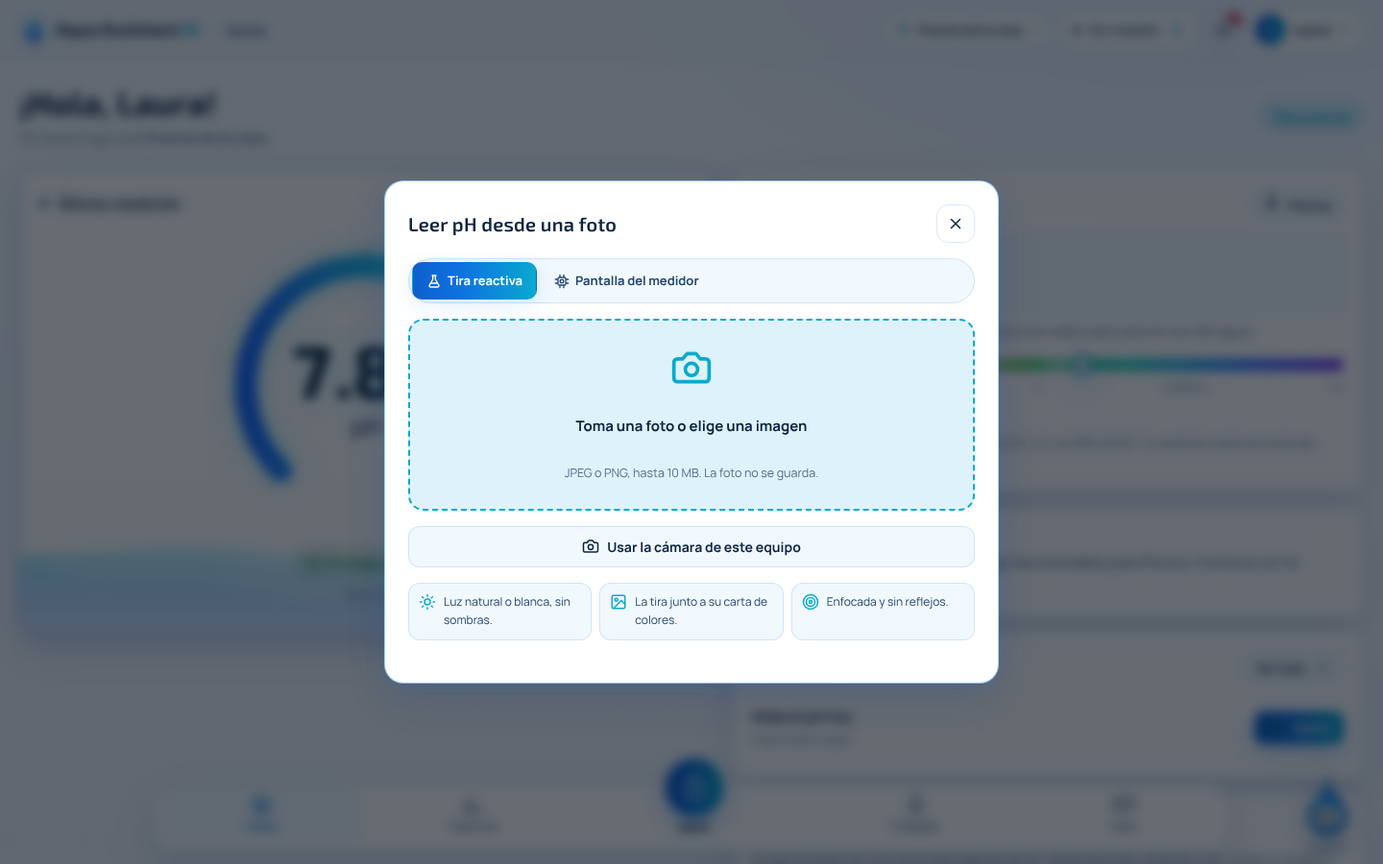
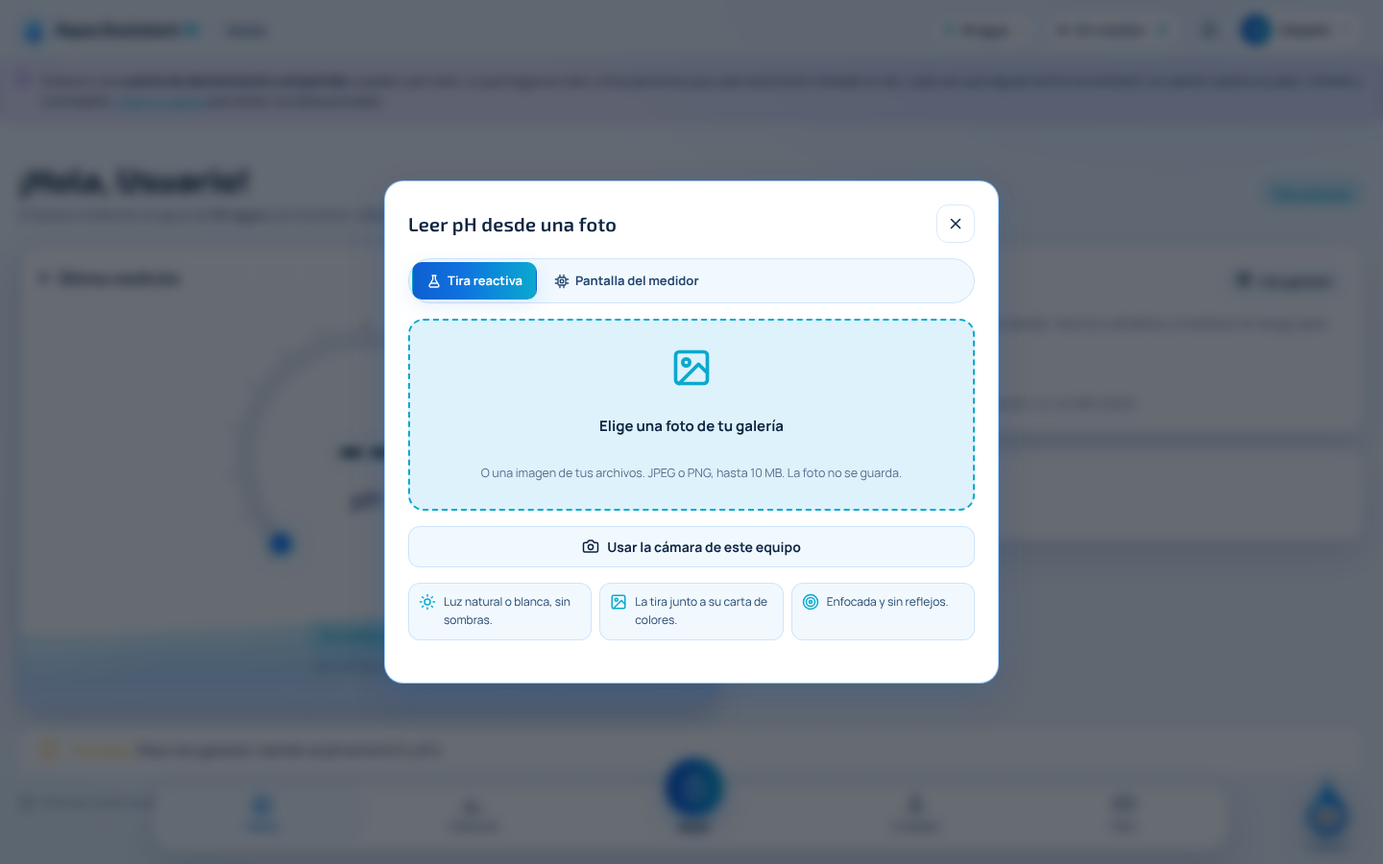
H-066: MockUps, requerimientos y README al día
Nueve MockUps mostraban la app vieja: el inicio de sesión con dos botones y correos inventados (1, 4, 27, 32 y 47), la foto que obligaba a usar la cámara (19) y el administrador con la barra del usuario y «Medir» (25, 26 y 31). Se capturaron otra vez desde la app publicada. RF-15 (galería y número marcado «pH»), RF-21 (el administrador ve otra aplicación y no mide), RF-30 (la sirena suena en el celular y un valor crítico alarma aunque no haya mediciones recientes), RNF-03 (modo siempre despierto) y RNF-06 (los siete patrones de clase y las cifras de pruebas) quedan como la app de hoy, igual que sus issues y el README. También se registran H-065 y H-066. Pruebas: 65 antes, 65 después.

diff --git a/docs/Requerimientos.md b/docs/Requerimientos.md
@@ -345,13 +345,15 @@ Estado: **Hecho** = implementado y probado en la aplicación publicada; **Parcia
 
 **Como** usuario sin medidor electrónico, **quiero** tomar una foto de una tira reactiva o de la pantalla de mi medidor, **para** registrar el pH sin escribirlo.
 
-**Descripción.** La IA con visión lee la foto, da un valor o un rango con su confianza y una segunda opinión de otro modelo; el usuario confirma antes de guardar.
+**Descripción.** Desde «Medir» → «Con una foto» se elige una foto de la galería del celular o de los archivos, o se toma con la cámara del equipo. La IA con visión lee la foto, da un valor o un rango con su confianza y una segunda opinión de otro modelo; el usuario confirma antes de guardar. En la pantalla de un medidor lee solo el número que tiene «pH» al lado, nunca la temperatura. Una lectura crítica guardada por foto hace sonar la alarma igual que las demás.
 
 **Criterios de aceptación**
 
 - [x] Fotos borrosas o sin carta de colores se rechazan con la causa.
 - [x] El resultado muestra el valor, la confianza y el acuerdo entre modelos.
 - [x] Nada se guarda sin confirmación del usuario.
+- [x] En el celular se puede elegir una foto ya tomada (galería) o usar la cámara.
+- [x] En la pantalla de un medidor se lee solo el número marcado «pH».
 - [ ] Pendiente: medir la precisión con fotos reales de tiras.
 
 **MockUp19** · Lectura de pH por foto
@@ -455,20 +457,21 @@ Estado: **Hecho** = implementado y probado en la aplicación publicada; **Parcia
 
 **Como** administrador, **quiero** gestionar cuentas (plan, rol, estado) y ver el consumo y costo de la IA, **para** controlar el sistema y sus gastos.
 
-**Descripción.** Búsqueda y filtros de usuarios, detalle con pagos, actividad y sesiones, cambios de plan, rol y estado con aviso por correo, y reporte de consumo de IA por modelo, función y día con costo estimado.
+**Descripción.** El administrador trabaja para la empresa y ve otra aplicación, con su propia barra: Panel (cifras, usuarios, pagos y actividad), Consumo IA, Datos oficiales y Sesiones. En el Panel hay búsqueda y filtros de usuarios, detalle con pagos, actividad y sesiones, y cambios de plan, rol y estado con aviso por correo. Consumo IA reporta llamadas, tokens y costo por modelo, función y día. El administrador no mide el pH: no tiene «Medir», ni medidor, ni Aqua, y el servidor rechaza con 403 cualquier medición de una cuenta administradora.
 
 **Criterios de aceptación**
 
 - [x] Solo el rol administrador entra a Administración.
+- [x] El administrador ve su propia barra y no puede registrar mediciones (403 en el servidor).
 - [x] No se puede dejar el sistema sin administradores activos.
 - [x] El consumo muestra llamadas, tokens y costo estimado por modelo.
 - [x] Los precios estimados vienen de fuentes de terceros y deben confirmarse en las páginas oficiales.
 
-**MockUp25** · Administración (cuentas reales difuminadas)
+**MockUp25** · Panel del administrador, con su propia barra (Panel, Consumo IA, Datos oficiales, Sesiones)
 
 ![MockUp25](mockups/MockUp25.png)
 
-**MockUp26** · Consumo y costos de IA
+**MockUp26** · Consumo de IA de toda la plataforma
 
 ![MockUp26](mockups/MockUp26.png)
 
@@ -647,7 +650,7 @@ Estado: **Hecho** = implementado y probado en la aplicación publicada; **Parcia
 
 **Como** dueño de una piscina, un acuario u otra agua con un medidor dentro, **quiero** que la app me avise de inmediato con sonido y que Aqua me diga si el cambio es peligroso cuando el pH se altera, **para** sacar a las personas del agua o proteger a los peces a tiempo.
 
-**Descripción.** Con el medidor en el agua («Medir cada 10 s», que sigue aunque se cambie de pantalla), cada medición se compara con las de la última hora. Si el pH cambia 0,5 o más (por ejemplo, algo cayó al agua), o si entra en nivel crítico, se crea la alerta «Alteración del pH en el agua». Dice si es peligroso según los rangos del perfil (nivel crítico = peligroso) y qué hacer según el tipo de agua: en una piscina, que nadie se bañe y salgan del agua; en un acuario, que los peces corren peligro; en agua potable, no tomarla; en riego, no regar. Funciona con cualquier perfil. En la app suena una alarma (al volumen del equipo), aparece una ventana que no se cierra sola y Aqua lo dice en voz alta; la alarma se repite cada pocos segundos hasta pulsar «Entendido». En el celular o computador llega un aviso urgente que queda en pantalla y vibra, aunque la app esté cerrada (si se activaron los avisos). La misma alerta no se repite en ese lugar durante 30 minutos, salvo que se vuelva peligrosa. Debajo, «Aqua explica» amplía el aviso con IA: un resumen, las causas probables para ese tipo de agua, qué hacer ahora y cuándo vuelve a ser segura, con las mediciones de la última hora, el veredicto de peligro del sistema y las normas que aplican; Aqua lo lee después del aviso. Si la IA no está disponible, la explicación sale de las reglas del perfil. En Configuración se puede apagar el sonido en cada dispositivo y probar la alarma. Si la app está abierta en otro equipo, revisa las alertas cada 15 segundos. Con el medidor conectado al mismo equipo, el aviso es inmediato.
+**Descripción.** Con el medidor en el agua («Medir cada 10 s», que sigue aunque se cambie de pantalla), cada medición se compara con las de la última hora. Si el pH cambia 0,5 o más (por ejemplo, algo cayó al agua), o si entra en nivel crítico aunque no haya mediciones en la última hora, se crea la alerta «Alteración del pH en el agua». Dice si es peligroso según los rangos del perfil (nivel crítico = peligroso) y qué hacer según el tipo de agua: en una piscina, que nadie se bañe y salgan del agua; en un acuario, que los peces corren peligro; en agua potable, no tomarla; en riego, no regar. Funciona con cualquier perfil. En la app suena una sirena generada en el navegador (al volumen del equipo, también en el celular, con un elemento de audio y Web Audio de respaldo), aparece una ventana que no se cierra sola y Aqua lo dice en voz alta; la alarma se repite cada pocos segundos hasta pulsar «Entendido». En el celular o computador llega un aviso urgente que queda en pantalla y vibra, aunque la app esté cerrada (si se activaron los avisos). La misma alerta no se repite en ese lugar durante 30 minutos, salvo que se vuelva peligrosa. Debajo, «Aqua explica» amplía el aviso con IA: un resumen, las causas probables para ese tipo de agua, qué hacer ahora y cuándo vuelve a ser segura, con las mediciones de la última hora, el veredicto de peligro del sistema y las normas que aplican; Aqua lo lee después del aviso. Si la IA no está disponible, la explicación sale de las reglas del perfil. En Configuración se puede apagar el sonido en cada dispositivo y probar la alarma. Si la app está abierta en otro equipo, revisa las alertas cada 15 segundos. Con el medidor conectado al mismo equipo, el aviso es inmediato.
 
 **Criterios de aceptación**
 
@@ -657,6 +660,8 @@ Estado: **Hecho** = implementado y probado en la aplicación publicada; **Parcia
 - [x] El aviso del celular o computador es urgente y queda en pantalla hasta tocarlo.
 - [x] «Aqua explica» muestra y lee el resumen, las causas probables, los pasos y cuándo vuelve a ser segura (con IA o, sin ella, con las reglas del perfil).
 - [x] Los navegadores solo dejan sonar una página después de tocarla una vez; si no, la ventana lo indica.
+- [x] La sirena suena también en el celular (en iPhone con Safari 17 o más, aunque esté en silencio).
+- [x] Una medición en nivel crítico hace sonar la alarma aunque la anterior sea de hace más de una hora.
 
 **MockUp48** · Alarma en una piscina: el pH bajó de 7,50 a 5,20, con la explicación de Aqua (IA)
 
@@ -705,13 +710,14 @@ Estado: **Hecho** = implementado y probado en la aplicación publicada; **Parcia
 
 **Como** usuario, **quiero** que la app esté disponible cuando la abra y me avise si el servidor está arrancando, **para** saber que debo esperar un momento y no ver un error.
 
-**Descripción.** Frontend en Vercel, backend y servicio de IA en Render y base PostgreSQL en Neon. Para que las 750 horas gratis al mes de Render alcancen a los dos servicios, el backend se duerme cuando nadie lo usa: la primera visita después tarda alrededor de un minuto y la app muestra «Activando el servidor…» mientras arranca. Un flujo de GitHub lo despierta cada 3 horas para enviar los recordatorios e importar los datos del USGS. Para una presentación, KEEP_AWAKE=true en Render lo mantiene despierto.
+**Descripción.** Frontend en Vercel, backend y servicio de IA en Render y base PostgreSQL en Neon. Render apaga un servicio gratuito tras 15 minutos sin uso. Desde el 20 nov 2026, a pedido del dueño, el flujo de GitHub «Despertar el backend y la IA» mantiene despiertos al backend y al servicio de IA (los visita cada 4 minutos), así que responden al instante. Con la variable KEEP_AWAKE_MODE=3h de GitHub vuelve el modo ahorro, para que las 750 horas gratis al mes alcancen: los servicios se duermen cuando nadie los usa, el flujo los despierta cada 3 horas para enviar los recordatorios e importar los datos del USGS, y la primera visita tarda alrededor de un minuto mientras la app muestra «Activando el servidor…».
 
 **Criterios de aceptación**
 
 - [x] /actuator/health/liveness responde 200 sin iniciar sesión.
 - [x] Si el servidor tarda, la app avisa en lugar de mostrar un error.
 - [x] Dormido, el backend despierta con la primera visita y la app sigue sola cuando responde.
+- [x] En modo «siempre despierto», el backend y el servicio de IA responden sin esperar el arranque.
 
 **MockUp29** · Aviso mientras el servidor arranca
 
@@ -761,7 +767,7 @@ Estado: **Hecho** = implementado y probado en la aplicación publicada; **Parcia
 - [x] Las cuentas reales aparecen enmascaradas para el administrador de demostración.
 - [x] Cada medición indica su origen (manual, medidor, foto).
 
-**MockUp31** · Datos enmascarados para el administrador de demostración
+**MockUp31** · Cuentas de personas reales enmascaradas para el administrador de demostración
 
 ![MockUp31](mockups/MockUp31.png)
 
@@ -771,7 +777,7 @@ Estado: **Hecho** = implementado y probado en la aplicación publicada; **Parcia
 
 **Como** desarrollador del proyecto, **quiero** un código organizado, documentado y con pruebas automáticas, **para** cambiarlo sin romper lo que funciona.
 
-**Descripción.** Cuatro repositorios: el frontend (HTML, CSS y JavaScript con módulos, sin frameworks), el backend y el servicio de IA en Spring Boot por capas (controlador, servicio, repositorio) organizados por módulo, y la base de datos (DBPatSft), cuyas migraciones Flyway GitHub Actions prueba en una base vacía y aplica a Neon. Catálogo de patrones de diseño (docs/DesignPatterns.md del backend). Pruebas automáticas: backend (111) y servicio de IA (119) con JUnit y H2, frontend (56) con node:test y el firmware del medidor con pruebas en el computador; GitHub Actions las ejecuta en cada cambio.
+**Descripción.** Cuatro repositorios: el frontend (HTML, CSS y JavaScript con módulos, sin frameworks), el backend y el servicio de IA en Spring Boot por capas (controlador, servicio, repositorio) organizados por módulo, y la base de datos (DBPatSft), cuyas migraciones Flyway GitHub Actions prueba en una base vacía y aplica a Neon. Catálogo de patrones de diseño (docs/DesignPatterns.md del backend), con los siete vistos en clase (Abstract Factory, Factory Method, Adapter, Bridge, Decorator, Facade y Proxy), cada uno con su función, y 22 más. Pruebas automáticas: backend (130) y servicio de IA (128) con JUnit y H2, frontend (65) con node:test y el firmware del medidor (31) en el computador; GitHub Actions las ejecuta en cada cambio.
 
 **Criterios de aceptación**
 
@@ -826,13 +832,13 @@ _Requerimiento sin pantalla propia: se comprueba con las pruebas automáticas y 
 | [MockUp22](mockups/MockUp22.png) | Foto de perfil | RF-18 |
 | [MockUp23](mockups/MockUp23.png) | Actividad y sesiones, dentro de Configuración | RF-19 |
 | [MockUp24](mockups/MockUp24.png) | Datos oficiales del USGS, dentro de la Biblioteca | RF-20 |
-| [MockUp25](mockups/MockUp25.png) | Administración (cuentas reales difuminadas) | RF-21 |
-| [MockUp26](mockups/MockUp26.png) | Consumo y costos de IA | RF-21 |
+| [MockUp25](mockups/MockUp25.png) | Panel del administrador, con su propia barra | RF-21 |
+| [MockUp26](mockups/MockUp26.png) | Consumo de IA de toda la plataforma | RF-21 |
 | [MockUp27](mockups/MockUp27.png) | Bloqueo tras 5 intentos fallidos | RNF-01 |
 | [MockUp28](mockups/MockUp28.png) | Asistente escribiendo la respuesta en vivo | RNF-02 |
 | [MockUp29](mockups/MockUp29.png) | Aviso mientras el servidor arranca | RNF-03 |
 | [MockUp30](mockups/MockUp30.png) | Inicio en un celular | RNF-04 |
-| [MockUp31](mockups/MockUp31.png) | Datos enmascarados para el administrador de demostración | RNF-05 |
+| [MockUp31](mockups/MockUp31.png) | Cuentas de personas reales enmascaradas para el administrador de demostración | RNF-05 |
 | [MockUp32](mockups/MockUp32.png) | Inicio de sesión en un celular | RNF-07 |
 | [MockUp33](mockups/MockUp33.png) | Recorrido guiado: Aqua señala el botón Medir | RF-22 |
 | [MockUp34](mockups/MockUp34.png) | Panel de Aqua con el chat y las funciones agrupadas | RF-22 |

diff --git a/README.md b/README.md
@@ -32,7 +32,7 @@ Presentar la información y recoger las acciones del usuario. **Toda la lógica 
 - **Datos oficiales en un lugar** (Lugares → «Datos del USGS»): carga en un lugar las lecturas reales de una estación del USGS (una por hora, hasta 30 días) para ver los análisis con días de datos reales. En el historial aparecen como «Dato oficial USGS», nunca como mediciones propias, y se quitan con un botón.
 - **Inicio**: indicador circular de pH animado, estado del agua con escala 0-14, perfil activo y su rango, referencia oficial del USGS, lo que sugiere Aqua, alertas sin leer (solo si hay) y consejo.
 - **Medición**: el botón "Medir" de la barra, con el medidor conectado (resultado con clasificación, fecha, dispositivo, perfil, explicación y validación; guardar o descartar), modo en tiempo real por SSE y registro manual.
-- **Alarma por alteración del pH** (`js/views/PhAlarm.js`, `js/core/AlarmSound.js`, `js/core/AlarmRules.js`): si el backend crea una alerta «Alteración del pH en el agua» (el pH cambió 0,5 o más en la última hora o entró en nivel crítico, con cualquier perfil), suena una sirena hecha con Web Audio al volumen del equipo, aparece una ventana que no se cierra sola con «Es peligroso» o «Por ahora no es peligroso» y qué hacer, y Aqua lo dice en voz alta. Debajo, «Aqua explica» amplía el aviso con IA (causas probables, qué hacer y cuándo vuelve a ser seguro; sin IA, con las reglas del perfil) y Aqua también lo lee. Se repite cada pocos segundos hasta pulsar «Entendido» (como mucho dos minutos). Con la app en segundo plano muestra un aviso del sistema, y el aviso push del servidor es urgente, queda en pantalla y vibra. La app revisa las alertas cada 15 s y al instante con el medidor conectado al mismo equipo, cuya medición continua («Medir cada 10 s») sigue aunque se cambie de pantalla. En Configuración se apaga el sonido por dispositivo y se prueba la alarma.
+- **Alarma por alteración del pH** (`js/views/PhAlarm.js`, `js/core/AlarmSound.js`, `js/core/AlarmRules.js`): si el backend crea una alerta «Alteración del pH en el agua» (el pH cambió 0,5 o más en la última hora o entró en nivel crítico, con cualquier perfil), suena una sirena generada en el navegador al volumen del equipo (un WAV que se reproduce con un elemento de audio, así suena también en el celular; en iPhone con Safari 17 o más, aunque esté en silencio; Web Audio queda de respaldo), aparece una ventana que no se cierra sola con «Es peligroso» o «Por ahora no es peligroso» y qué hacer, y Aqua lo dice en voz alta. Debajo, «Aqua explica» amplía el aviso con IA (causas probables, qué hacer y cuándo vuelve a ser seguro; sin IA, con las reglas del perfil) y Aqua también lo lee. Se repite cada pocos segundos hasta pulsar «Entendido» (como mucho dos minutos). Con la app en segundo plano muestra un aviso del sistema, y el aviso push del servidor es urgente, queda en pantalla y vibra. La app revisa las alertas cada 15 s y al instante con el medidor conectado al mismo equipo, cuya medición continua («Medir cada 10 s») sigue aunque se cambie de pantalla. En Configuración se apaga el sonido por dispositivo y se prueba la alarma.
 - **Animaciones** (`js/core/Motion.js`): en Configuración → Apariencia, tres interruptores por dispositivo: animación del agua (olas del acceso y del indicador), animación de la gota (Aqua y la gota del acceso) y otras animaciones (transiciones, gráficas y contadores; empiezan según la opción del sistema «reducir movimiento», en Windows «Efectos de animación»).
 - **Historial**: 7 o 30 días, rango personalizado, filtros por origen y estado, tabla paginada, borrado con confirmación, exportación CSV. Las gráficas (evolución y distribución) se generan solo cuando el usuario las pide.
 - **Diagnóstico IA**: riesgo con anillo animado, hallazgos con evidencia, causas probables, plan de acción priorizado, datos faltantes, confianza, salvaguardas aplicadas e historial. Indica qué proveedor respondió (Gemini, Groq o reglas). El último diagnóstico aparece también en el inicio.
@@ -40,13 +40,13 @@ Presentar la información y recoger las acciones del usuario. **Toda la lógica 
 - **Asistente IA**: responde cualquier pregunta sobre el agua y su pH (piscinas, acuarios, agua potable, riego, corrección del pH, medidores, uso de la app y tus datos) y rechaza con una frase fija los temas ajenos. La respuesta aparece **mientras se escribe** (Server-Sent Events leídos con `fetch`, `js/core/SseParser.js`); el botón **Detener** la corta y **Copiar** la lleva al portapapeles con sus fuentes numeradas. Si el modelo se congela a mitad, el servidor avisa (`restart`) y otro modelo escribe la respuesta de nuevo; si ya no queda otro, lo recibido se conserva con el motivo.
 - **Arranque del servidor**: el backend gratuito se apaga cuando nadie lo usa; la app espera a que despierte mostrando "Activando el servidor..." en vez de fallar.
 - **Medidor por cámara** (Conexión, `js/views/CameraMeter.js`): para medidores sin cable de datos. La cámara apunta a la pantalla del medidor; el navegador detecta cuándo cambia el número y solo entonces envía un cuadro a la lectura por foto del backend. Las lecturas confiables se guardan solas. Muestra la cuota de IA del día, porque cada lectura usa una consulta.
-- **Lectura por foto**: desde Inicio o Historial, toma o sube una foto de la tira reactiva o de la pantalla del medidor. Muestra una animación de escaneo, el valor con su margen sobre la escala de colores, la confianza, si los dos modelos coinciden y las salvaguardas aplicadas. Permite corregir el valor antes de guardarlo con la etiqueta "Foto IA". La foto se convierte a JPEG en el navegador y no se guarda.
+- **Lectura por foto**: desde «Medir» → «Con una foto», elige una foto de la galería del celular (o de los archivos) o tómala con «Usar la cámara de este equipo», de la tira reactiva o de la pantalla del medidor. En la pantalla de un medidor lee solo el número que tiene «pH» al lado. Muestra una animación de escaneo, el valor con su margen sobre la escala de colores, la confianza, si los dos modelos coinciden y las salvaguardas aplicadas. Permite corregir el valor antes de guardarlo con la etiqueta "Foto IA". La foto se convierte a JPEG en el navegador y no se guarda.
 - **Agente de informes**: el usuario escribe un objetivo o elige una sugerencia; una línea de tiempo muestra en vivo cada consulta que hace el agente. El informe incluye resumen, cifras clave, secciones con las gráficas que eligió el agente, recomendaciones, limitaciones, el sello "N/N cifras verificadas", el detalle de cómo se elaboró, el historial y la descarga en PDF o .txt.
 - **Respaldo normativo y biblioteca**: recomendaciones, diagnósticos, informes y el asistente muestran las citas literales de la EPA, la OMS, la CDC o la FAO que los respaldan. Cada cita trae su sección, un resumen en español rotulado como no oficial, el carácter legal de la fuente y el enlace al documento. En el chat, las referencias son marcas numeradas que abren y resaltan la cita. La vista "Biblioteca normativa" lista las fuentes, la cobertura por uso del agua y permite buscar en los fragmentos (`js/views/Citations.js`, `js/views/Library.js`).
 - **Plan y pagos** (`#/billing`): plan actual y vencimiento, comparación con Premium, botón "Pagar con PayU" que envía el formulario firmado por el backend a la página segura de PayU, datos de prueba del sandbox, resultado al volver (verificado por el servidor) e historial de pagos (`js/views/Billing.js`).
 - **Asistente con memoria**: lista de conversaciones guardadas, abrir y continuar una conversación, indicador de cuántos mensajes recuerda, y borrar una o todas (`js/views/AssistantPane.js`).
 - **Escenarios explicados por IA**: tras simular, "Explicar con IA" muestra el cambio en la concentración de iones H+, cuándo se llegaría con la tendencia actual, efectos por área con su severidad, señales tempranas, prevención, citas y el sello de cifras verificadas.
-- **Administración** (solo administradores, `js/views/Admin.js`): cifras del sistema, lista de usuarios con búsqueda, filtros y paginación (en el celular se muestra como tarjetas), y una ventana por cuenta para cambiar el plan, el rol y el estado, con sus pagos y su actividad. Los botones que el servidor no permite (por ejemplo, desactivar la propia cuenta) se reemplazan por el motivo. Las acciones delicadas piden un segundo clic.
+- **Administración** (solo administradores, `js/views/Admin.js`): es el «Panel» de la aplicación del administrador, que tiene su propia barra (Panel, Consumo IA, Datos oficiales, Sesiones) y no mide el pH. Muestra las cifras del sistema, lista de usuarios con búsqueda, filtros y paginación (en el celular se muestra como tarjetas), y una ventana por cuenta para cambiar el plan, el rol y el estado, con sus pagos y su actividad. Los botones que el servidor no permite (por ejemplo, desactivar la propia cuenta) se reemplazan por el motivo. Las acciones delicadas piden un segundo clic.
 - **Consumo y costos**: llamadas, fallos, tokens, costo estimado y cargo real; gráfica diaria animada y desglose por modelo y por función. Los administradores ven también el consumo global (`js/views/UsagePane.js`).
 - **Red neuronal (LSTM)**: diagrama animado de la red desplegada en el tiempo, serie de 48 horas con la predicción de 12 horas y su intervalo, comparación del error con las referencias simples, curva de aprendizaje con la época elegida y alerta anticipada. Sin datos suficientes muestra cuánto falta para entrenar y ofrece verla con los datos reales de un río del USGS, con un aviso de que no son tus mediciones (`js/views/DeepPane.js`).
 - **Aprendizaje automático**: estado del modelo (mediciones, árboles, umbral, tiempo de entrenamiento), puntaje de rareza de cada medición frente al umbral, patrón de pH por hora del día y mediciones inusuales con las variables que las explican.
@@ -172,7 +172,7 @@ No hay compilación: la carpeta completa es el sitio. Para publicarla en un host
 
 ```bash
 npm run check   # sintaxis de los 54 archivos JS
-npm test        # 53 pruebas unitarias con node:test
+npm test        # 65 pruebas unitarias con node:test
 ```
 
 Las pruebas unitarias (`tests/`) cubren:
@@ -183,6 +183,9 @@ Las pruebas unitarias (`tests/`) cubren:
 - Los formatos y el escapado de HTML.
 - Los textos del historial de sesiones y de los datos oficiales.
 - Las reglas de la contraseña y de los rangos de un perfil.
+- La sirena de la alarma (el WAV es válido, suena fuerte y alterna los dos tonos) y las reglas de la alarma.
+- Qué pantallas ve cada rol (usuario o administrador) y adónde entra cada uno.
+- El tamaño de la gota de «Acerca de».
 
 GitHub Actions ejecuta las dos órdenes en cada push (`.github/workflows/Checks.yml`).
 

diff --git a/docs/issues/30-RF-30.md b/docs/issues/30-RF-30.md
@@ -7,7 +7,7 @@
 
 ## Descripción
 
-Con el medidor en el agua («Medir cada 10 s», que sigue aunque se cambie de pantalla), cada medición se compara con las de la última hora. Si el pH cambia 0,5 o más (por ejemplo, algo cayó al agua), o si entra en nivel crítico, se crea la alerta «Alteración del pH en el agua». Dice si es peligroso según los rangos del perfil (nivel crítico = peligroso) y qué hacer según el tipo de agua: en una piscina, que nadie se bañe y salgan del agua; en un acuario, que los peces corren peligro; en agua potable, no tomarla; en riego, no regar. Funciona con cualquier perfil. En la app suena una alarma (al volumen del equipo), aparece una ventana que no se cierra sola y Aqua lo dice en voz alta; la alarma se repite cada pocos segundos hasta pulsar «Entendido». En el celular o computador llega un aviso urgente que queda en pantalla y vibra, aunque la app esté cerrada (si se activaron los avisos). La misma alerta no se repite en ese lugar durante 30 minutos, salvo que se vuelva peligrosa. Debajo, «Aqua explica» amplía el aviso con IA: un resumen, las causas probables para ese tipo de agua, qué hacer ahora y cuándo vuelve a ser segura, con las mediciones de la última hora, el veredicto de peligro del sistema y las normas que aplican; Aqua lo lee después del aviso. Si la IA no está disponible, la explicación sale de las reglas del perfil. En Configuración se puede apagar el sonido en cada dispositivo y probar la alarma. Si la app está abierta en otro equipo, revisa las alertas cada 15 segundos. Con el medidor conectado al mismo equipo, el aviso es inmediato.
+Con el medidor en el agua («Medir cada 10 s», que sigue aunque se cambie de pantalla), cada medición se compara con las de la última hora. Si el pH cambia 0,5 o más (por ejemplo, algo cayó al agua), o si entra en nivel crítico aunque no haya mediciones en la última hora, se crea la alerta «Alteración del pH en el agua». Dice si es peligroso según los rangos del perfil (nivel crítico = peligroso) y qué hacer según el tipo de agua: en una piscina, que nadie se bañe y salgan del agua; en un acuario, que los peces corren peligro; en agua potable, no tomarla; en riego, no regar. Funciona con cualquier perfil. En la app suena una sirena generada en el navegador (al volumen del equipo, también en el celular, con un elemento de audio y Web Audio de respaldo), aparece una ventana que no se cierra sola y Aqua lo dice en voz alta; la alarma se repite cada pocos segundos hasta pulsar «Entendido». En el celular o computador llega un aviso urgente que queda en pantalla y vibra, aunque la app esté cerrada (si se activaron los avisos). La misma alerta no se repite en ese lugar durante 30 minutos, salvo que se vuelva peligrosa. Debajo, «Aqua explica» amplía el aviso con IA: un resumen, las causas probables para ese tipo de agua, qué hacer ahora y cuándo vuelve a ser segura, con las mediciones de la última hora, el veredicto de peligro del sistema y las normas que aplican; Aqua lo lee después del aviso. Si la IA no está disponible, la explicación sale de las reglas del perfil. En Configuración se puede apagar el sonido en cada dispositivo y probar la alarma. Si la app está abierta en otro equipo, revisa las alertas cada 15 segundos. Con el medidor conectado al mismo equipo, el aviso es inmediato.
 
 ## Criterios de aceptación
 
@@ -17,6 +17,8 @@ Con el medidor en el agua («Medir cada 10 s», que sigue aunque se cambie de pa
 - [x] El aviso del celular o computador es urgente y queda en pantalla hasta tocarlo.
 - [x] «Aqua explica» muestra y lee el resumen, las causas probables, los pasos y cuándo vuelve a ser segura (con IA o, sin ella, con las reglas del perfil).
 - [x] Los navegadores solo dejan sonar una página después de tocarla una vez; si no, la ventana lo indica.
+- [x] La sirena suena también en el celular (en iPhone con Safari 17 o más, aunque esté en silencio).
+- [x] Una medición en nivel crítico hace sonar la alarma aunque la anterior sea de hace más de una hora.
 
 ## MockUp
 

diff --git a/docs/calidad/hallazgos.md b/docs/calidad/hallazgos.md
@@ -76,6 +76,8 @@ Estados: `Nuevo` · `Aprobado` · `Requiere propuesta` · `En corrección` · `E
 | H-062 | El requisito RNF-07 pedía «instalar la app» y decía que la interfaz solo estaba en español | FrontendPatSft | documentación / decisión del dueño | Baja | no | Resuelto (FrontendPatSft#49) |
 | H-063 | La gota de «Acerca de» en Configuración ocupaba todo el ancho de la tarjeta | FrontendPatSft | error de interfaz | Baja | no | Resuelto (FrontendPatSft#51) |
 | H-064 | Tres patrones vistos en clase (Abstract Factory, Bridge y Decorator) no estaban en el software | BackendPatSft · FrontendPatSft | requisito del curso / arquitectura | Media | sí (diseño interno, pedido por el dueño) | En revisión (BackendPatSft#12) |
+| H-065 | La app se dormía y tardaba en responder: el despertador corría cada 3 horas y GitHub lo ejecutaba aún menos | BackendPatSft | disponibilidad / pedido del dueño | Media | no | En revisión (BackendPatSft#13) |
+| H-066 | Documentación atrasada: MockUps, requerimientos, issues y README de los cuatro repositorios no reflejaban H-053 a H-065 | Los cuatro | documentación | Baja | no | En revisión (FrontendPatSft#52 y los PR de documentación de cada repositorio) |
 
 ## Detalle
 
@@ -645,3 +647,20 @@ Estados: `Nuevo` · `Aprobado` · `Requiere propuesta` · `En corrección` · `E
   - La API del `Notifier` no cambia, y si un canal falla, el otro igual se envía.
   - Pruebas del backend: 119 → 130.
   - En este repositorio se actualizan el diagrama de clases (5.3 y el nuevo 5.3.1) y la trazabilidad.
+
+### H-065 · La app se dormía y tardaba en responder
+- Repositorio: BackendPatSft · Tipo: disponibilidad / pedido del dueño · Severidad: **Media** · Estructural: no · Estado: En revisión (BackendPatSft#13) · Detectado por: el dueño (20 nov)
+- Evidencia: Render apaga cada servicio gratuito tras 15 minutos sin uso. `WakeUp.yml` corría «cada 3 horas», pero GitHub lo ejecutó 3 veces en 18 horas, y no despertaba al servicio de IA.
+- Corrección: modo `always` (por defecto). Una ejecución visita el backend y el servicio de IA cada 4 minutos durante unas 5 h 30 min y lanza la siguiente con `workflow_dispatch`. Con `KEEP_AWAKE_MODE=3h` vuelve el modo ahorro.
+- Costo: los dos servicios despiertos usan unas 48 de las 750 horas gratis de Render por día, así que el dueño debe volver al modo ahorro cuando termine la presentación.
+
+### H-066 · Documentación atrasada en los cuatro repositorios
+- Repositorio: los cuatro · Tipo: documentación · Severidad: **Baja** · Estado: En revisión · Detectado por: el dueño (20 nov)
+- Evidencia: 9 MockUps mostraban la app vieja:
+  - 1, 4, 27, 32 y 47: el inicio de sesión con 2 botones y correos inventados.
+  - 19: la foto con «Toma una foto o elige una imagen».
+  - 25, 26 y 31: el administrador con la barra del usuario y el botón «Medir».
+  - Además, RF-15, RF-21, RF-30, RNF-03 y RNF-06 y los README tenían cifras de pruebas y comportamientos anteriores a H-053–H-065.
+- Corrección:
+  - Los 9 MockUps se capturaron otra vez desde la app publicada.
+  - Se pusieron al día los requerimientos y sus issues, y los README y documentos de BackendPatSft, AIPatSft y DBPatSft.

diff --git a/docs/calidad/registro-de-cambios.md b/docs/calidad/registro-de-cambios.md
@@ -4,6 +4,8 @@ Cada modificación hecha por el equipo, con sus pruebas y cómo revertirla. Lo m
 
 | Fecha | Hallazgo | Repositorio | Rama y pull request | Qué cambió | Pruebas antes → después | Cómo revertir |
 |---|---|---|---|---|---|---|
+| 2026-11-20 | H-066 | FrontendPatSft | `calidad/H-064-patrones-de-clase` · [FrontendPatSft#52](https://github.com/WillC372/FrontendPatSft/pull/52) | 9 MockUps capturados de nuevo desde la app publicada (1, 4, 19, 25, 26, 27, 31, 32, 47); RF-15, RF-21, RF-30, RNF-03 y RNF-06 y sus issues; README (sirena en el celular, foto desde la galería, panel del administrador, 65 pruebas). | 65 → 65 aprobadas | Revertir el commit |
+| 2026-11-20 | H-065 | BackendPatSft | `mejora/H-065-app-siempre-despierta` · [BackendPatSft#13](https://github.com/WillC372/BackendPatSft/pull/13) | `WakeUp.yml` mantiene despiertos el backend y la IA (modo `always`), con `KEEP_AWAKE_MODE=3h` para volver al modo ahorro. | Sin cambios en las pruebas (flujo de GitHub); probado lanzándolo desde la rama | Poner `KEEP_AWAKE_MODE=3h` o revertir el commit |
 | 2026-11-20 | H-064 | FrontendPatSft | `calidad/H-064-patrones-de-clase` | Diagrama de clases (medidores con Abstract Factory; avisos con Bridge y Decorator), trazabilidad y registro de H-064. Solo documentación. | 65 → 65 aprobadas; `npm run check` sin errores | Cerrar el PR o revertir el commit |
 | 2026-11-20 | H-064 | BackendPatSft | `mejora/H-064-patrones-de-clase` · [BackendPatSft#12](https://github.com/WillC372/BackendPatSft/pull/12) | Abstract Factory (`MeterKit`), Bridge (`Notice` × `NoticeChannel`) y Decorator (`TranslatedChannel`, `OncePerHourChannel`), con `DesignPatterns.md` al día. | 119 → 130 aprobadas | Cerrar el PR o revertir el commit |
 | 2026-11-20 | H-063 | FrontendPatSft | `mejora/H-063-gota-acerca-de` | La gota de «Acerca de» tiene un tamaño fijo de 56 px (antes llenaba la tarjeta: 948 px). Nueva prueba `AboutLogo.test.mjs`. | 64 → 65 aprobadas (la nueva fallaba antes) | Cerrar el PR o revertir el commit |

diff --git a/docs/issues/33-RNF-03.md b/docs/issues/33-RNF-03.md
@@ -7,13 +7,14 @@
 
 ## Descripción
 
-Frontend en Vercel, backend y servicio de IA en Render y base PostgreSQL en Neon. Para que las 750 horas gratis al mes de Render alcancen a los dos servicios, el backend se duerme cuando nadie lo usa: la primera visita después tarda alrededor de un minuto y la app muestra «Activando el servidor…» mientras arranca. Un flujo de GitHub lo despierta cada 3 horas para enviar los recordatorios e importar los datos del USGS. Para una presentación, KEEP_AWAKE=true en Render lo mantiene despierto.
+Frontend en Vercel, backend y servicio de IA en Render y base PostgreSQL en Neon. Render apaga un servicio gratuito tras 15 minutos sin uso. Desde el 20 nov 2026, a pedido del dueño, el flujo de GitHub «Despertar el backend y la IA» mantiene despiertos al backend y al servicio de IA (los visita cada 4 minutos), así que responden al instante. Con la variable KEEP_AWAKE_MODE=3h de GitHub vuelve el modo ahorro, para que las 750 horas gratis al mes alcancen: los servicios se duermen cuando nadie los usa, el flujo los despierta cada 3 horas para enviar los recordatorios e importar los datos del USGS, y la primera visita tarda alrededor de un minuto mientras la app muestra «Activando el servidor…».
 
 ## Criterios de aceptación
 
 - [x] /actuator/health/liveness responde 200 sin iniciar sesión.
 - [x] Si el servidor tarda, la app avisa en lugar de mostrar un error.
 - [x] Dormido, el backend despierta con la primera visita y la app sigue sola cuando responde.
+- [x] En modo «siempre despierto», el backend y el servicio de IA responden sin esperar el arranque.
 
 ## MockUp
 

diff --git a/docs/issues/36-RNF-06.md b/docs/issues/36-RNF-06.md
@@ -7,7 +7,7 @@
 
 ## Descripción
 
-Cuatro repositorios: el frontend (HTML, CSS y JavaScript con módulos, sin frameworks), el backend y el servicio de IA en Spring Boot por capas (controlador, servicio, repositorio) organizados por módulo, y la base de datos (DBPatSft), cuyas migraciones Flyway GitHub Actions prueba en una base vacía y aplica a Neon. Catálogo de patrones de diseño (docs/DesignPatterns.md del backend). Pruebas automáticas: backend (111) y servicio de IA (119) con JUnit y H2, frontend (56) con node:test y el firmware del medidor con pruebas en el computador; GitHub Actions las ejecuta en cada cambio.
+Cuatro repositorios: el frontend (HTML, CSS y JavaScript con módulos, sin frameworks), el backend y el servicio de IA en Spring Boot por capas (controlador, servicio, repositorio) organizados por módulo, y la base de datos (DBPatSft), cuyas migraciones Flyway GitHub Actions prueba en una base vacía y aplica a Neon. Catálogo de patrones de diseño (docs/DesignPatterns.md del backend), con los siete vistos en clase (Abstract Factory, Factory Method, Adapter, Bridge, Decorator, Facade y Proxy), cada uno con su función, y 22 más. Pruebas automáticas: backend (130) y servicio de IA (128) con JUnit y H2, frontend (65) con node:test y el firmware del medidor (31) en el computador; GitHub Actions las ejecuta en cada cambio.
 
 ## Criterios de aceptación
 

diff --git a/docs/issues/21-RF-21.md b/docs/issues/21-RF-21.md
@@ -12,17 +12,18 @@ Búsqueda y filtros de usuarios, detalle con pagos, actividad y sesiones, cambio
 ## Criterios de aceptación
 
 - [x] Solo el rol administrador entra a Administración.
+- [x] El administrador ve su propia barra y no puede registrar mediciones (403 en el servidor).
 - [x] No se puede dejar el sistema sin administradores activos.
 - [x] El consumo muestra llamadas, tokens y costo estimado por modelo.
 - [x] Los precios estimados vienen de fuentes de terceros y deben confirmarse en las páginas oficiales.
 
 ## MockUp
 
-**MockUp25** · Administración (cuentas reales difuminadas)
+**MockUp25** · Panel del administrador, con su propia barra (Panel, Consumo IA, Datos oficiales, Sesiones)
 
 ![MockUp25](https://raw.githubusercontent.com/WillC372/FrontendPatSft/main/docs/mockups/MockUp25.png)
 
-**MockUp26** · Consumo y costos de IA
+**MockUp26** · Consumo de IA de toda la plataforma
 
 ![MockUp26](https://raw.githubusercontent.com/WillC372/FrontendPatSft/main/docs/mockups/MockUp26.png)
 

diff --git a/docs/issues/15-RF-15.md b/docs/issues/15-RF-15.md
@@ -14,6 +14,8 @@ La IA con visión lee la foto, da un valor o un rango con su confianza y una seg
 - [x] Fotos borrosas o sin carta de colores se rechazan con la causa.
 - [x] El resultado muestra el valor, la confianza y el acuerdo entre modelos.
 - [x] Nada se guarda sin confirmación del usuario.
+- [x] En el celular se puede elegir una foto ya tomada (galería) o usar la cámara.
+- [x] En la pantalla de un medidor se lee solo el número marcado «pH».
 - [ ] Pendiente: medir la precisión con fotos reales de tiras.
 
 ## MockUp

diff --git a/docs/issues/35-RNF-05.md b/docs/issues/35-RNF-05.md
@@ -17,7 +17,7 @@ A los modelos de IA solo se envían valores de pH, fechas y datos del perfil de 
 
 ## MockUp
 
-**MockUp31** · Datos enmascarados para el administrador de demostración
+**MockUp31** · Cuentas de personas reales enmascaradas para el administrador de demostración
 
 ![MockUp31](https://raw.githubusercontent.com/WillC372/FrontendPatSft/main/docs/mockups/MockUp31.png)
 
